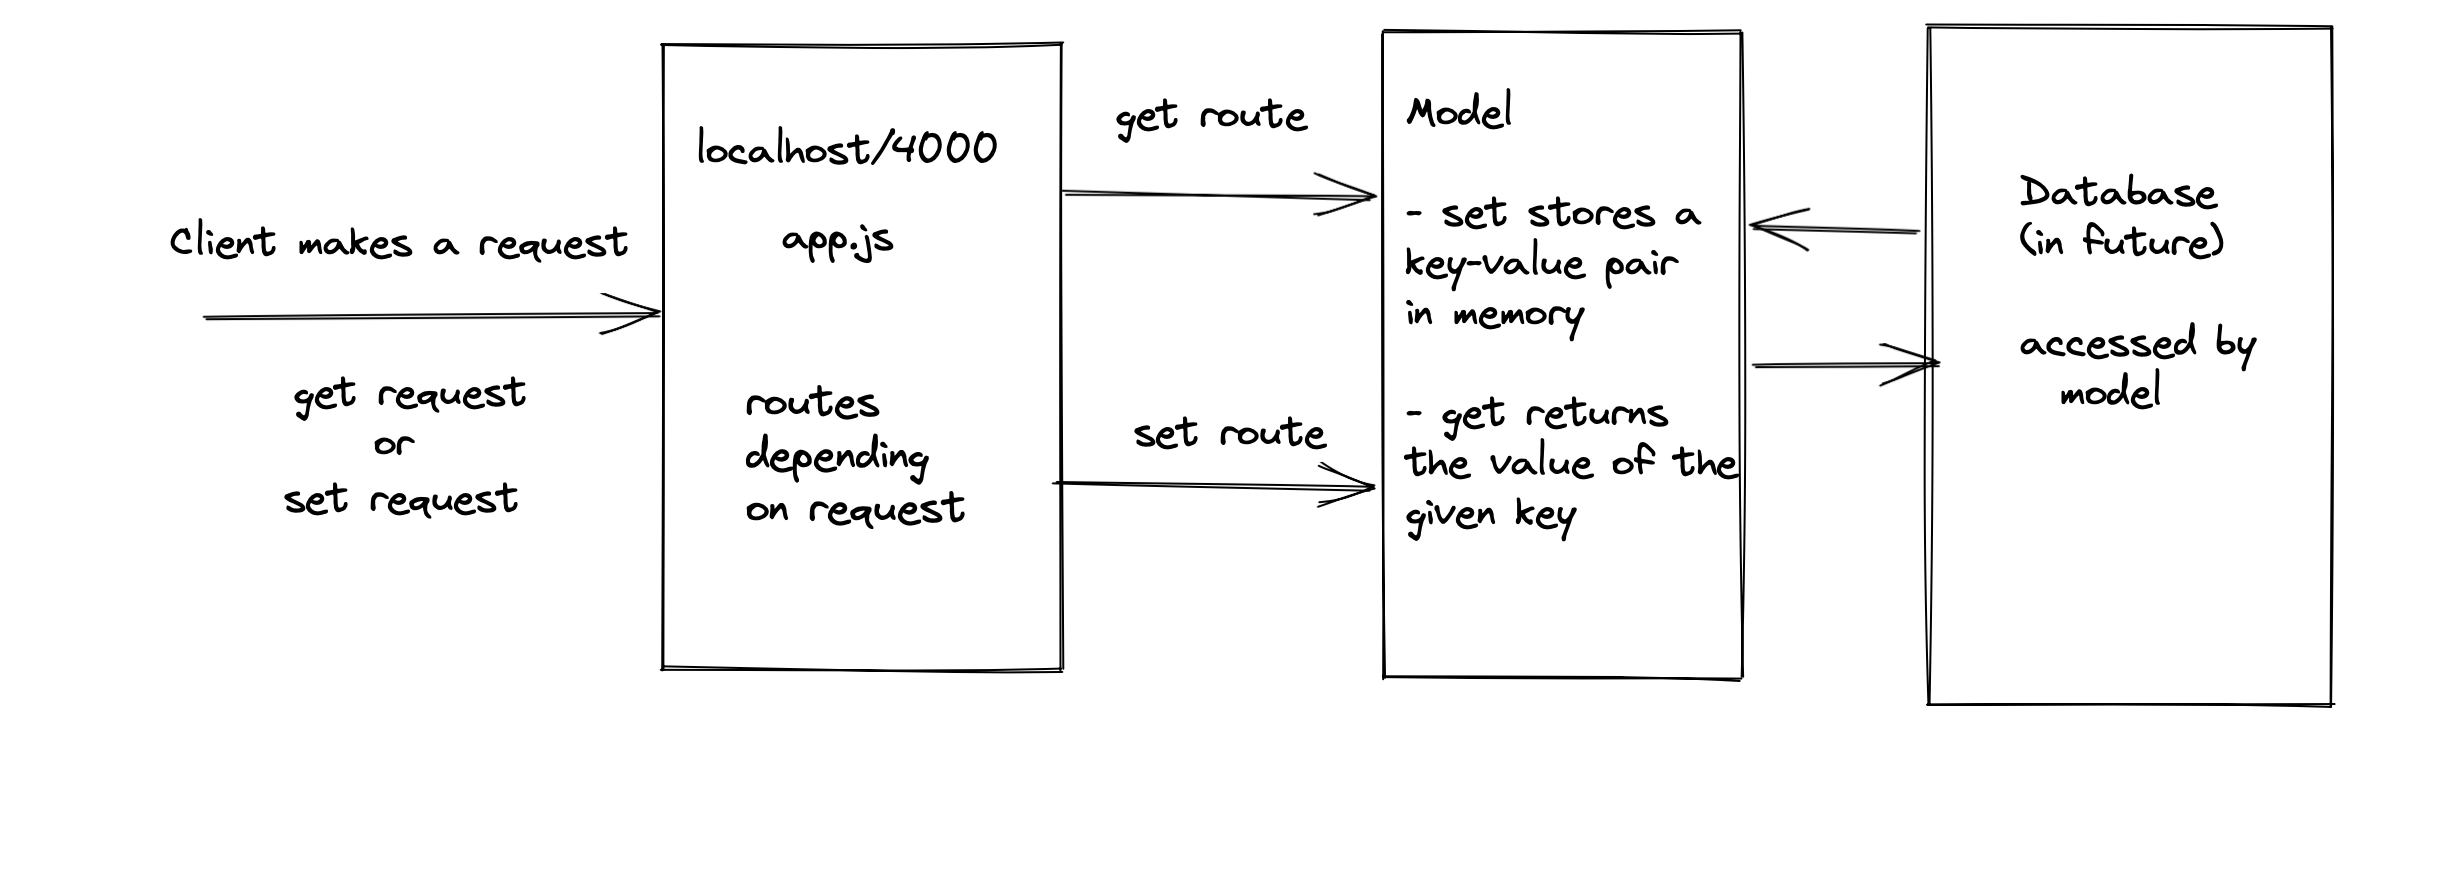
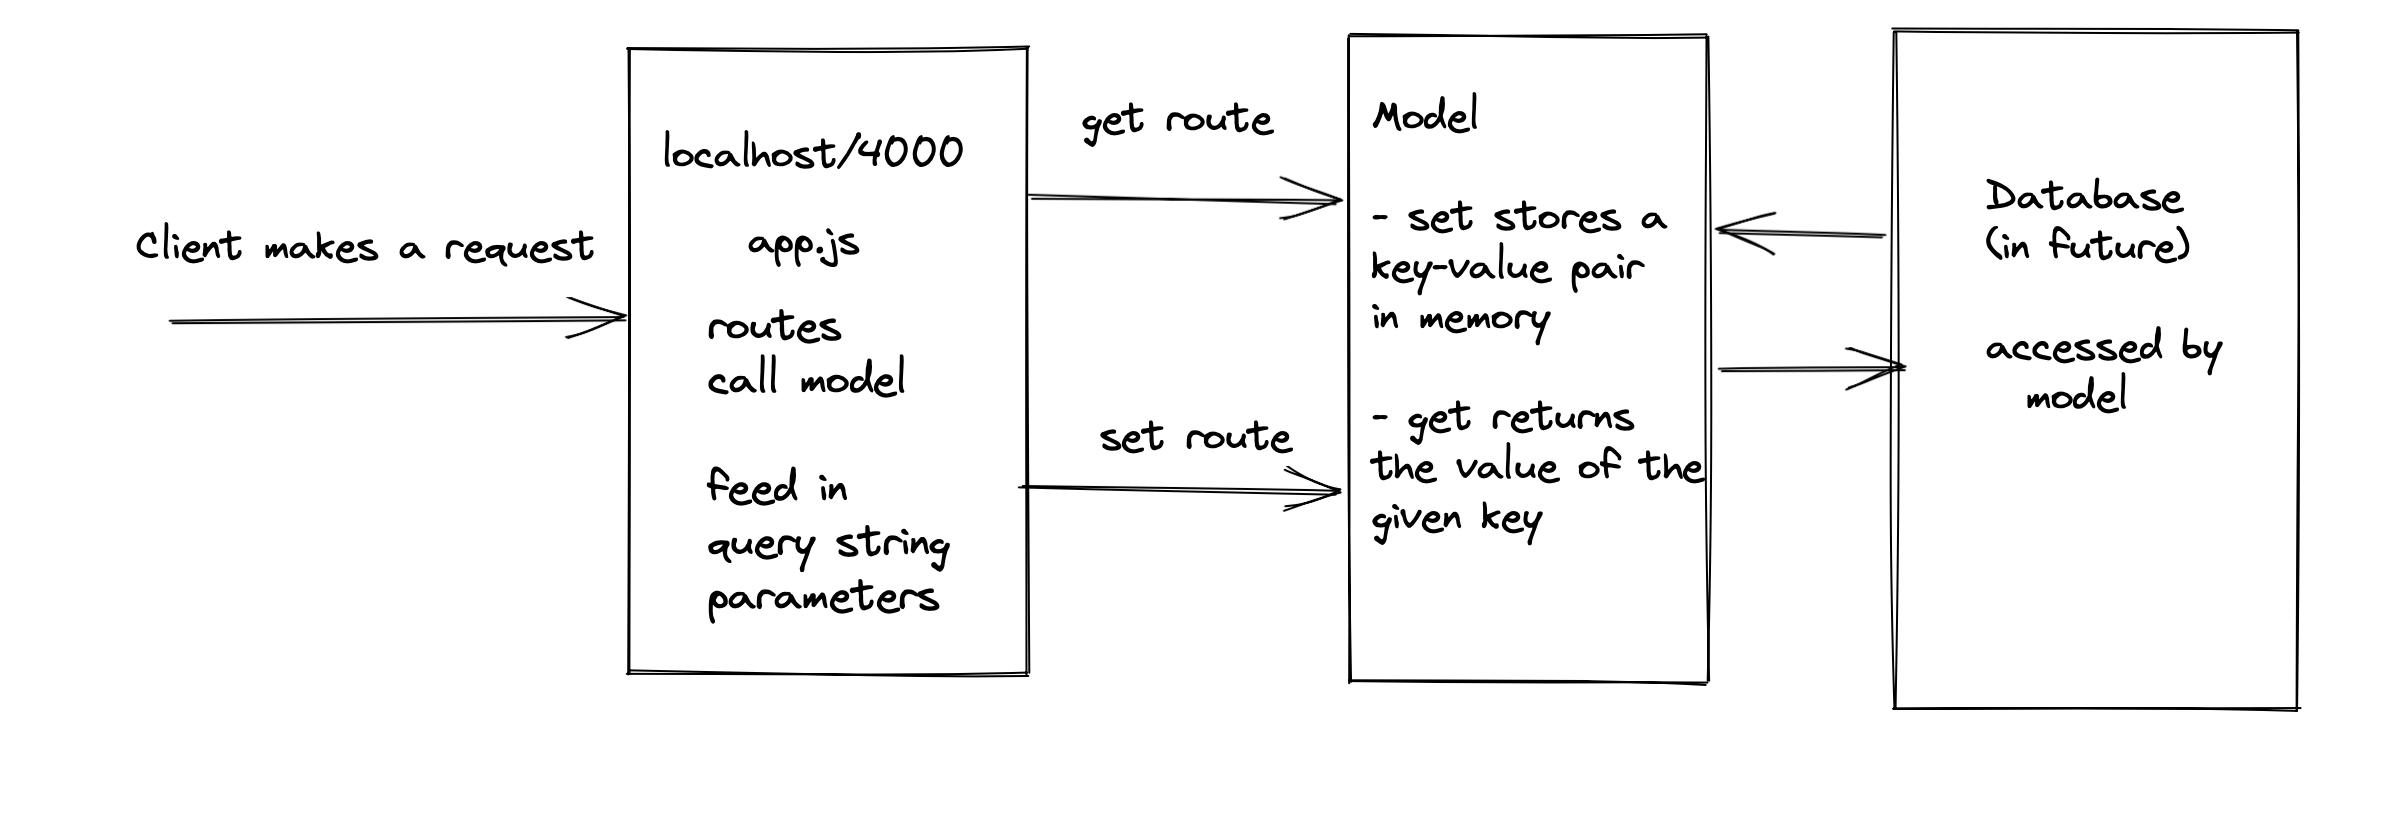
Added diagram and dependencies

diff --git a/readme.md b/readme.md
@@ -14,24 +14,46 @@ To Run On Your Computer
 ---------------------
 * Clone this repo using `git clone`
 * Run `npm install` to install the dependencies
-* Use `npm run start` to start the server on http://localhost:4000/
+* Use `npm run start` to start the server on http://localhost:4000/. 
 * Use `npm run start:test` followed by `jest` to run the tests. 
+* Use `npm run lint` for linting
 
 Note: the tests run on port 3000. This has the benefit of meaning you cannot break the tests by interacting with the server on port 4000. As currently the data is stored in memory, it would be unlikely you would break the tests: however, this makes it more possible to add a database in future, as you can run the test database with port 3000 and the real database with 4000.
 
 My Process
 ------------
-I began by diagraming the overall system as shown below.
-
+I began by diagraming the overall system.
 
 I then wrote some examples of how I would expect to interact with the server from code, using fetch requests. This gave me a better sense of what I would be testing for.
 
 I then followed a TDD process. I started with the feature tests and then, when these failed, moved to unit tests for the model in order to implement the functionality in the model and expand that into the server as a whole. This enabled me to focus on small chunks of work at a time.
 
+Diagram
+---------
+![](images/design.png?raw=true)
+
 Examples of Use 
 -----------------
 1:
-fetch('http://localhost:4000/set?animal=cat)
-.then(http://localhost:4000/get?key=animal)
-  .then(response => { should equal cat })
+```
+fetch('http://localhost:3000/set?animal=cat')
+      .then(
+        fetch('http://localhost:3000/get?key=animal')
+        .then(response => response.json())
+        .then(data => expect(data).toEqual('cat')))
+```
+2:
+```
+fetch('http://localhost:3000/set?pet=dog')
+    .then(
+      fetch('http://localhost:3000/get?key=pet')
+      .then(response => response.json())
+      .then(data => expect(data).toEqual('dog'))
+```
 
+Dependencies
+------
+- [Express](https://expressjs.com/) web framework for Node.js.
+- [Nodemon](https://nodemon.io/) to reload the server automatically. This currently has limited use but could be useful when adding the database via the model.
+- [ESLint](https://eslint.org) for linting. This required some configuration but now works well.
+- [Jest](https://jestjs.io/) for testing.
